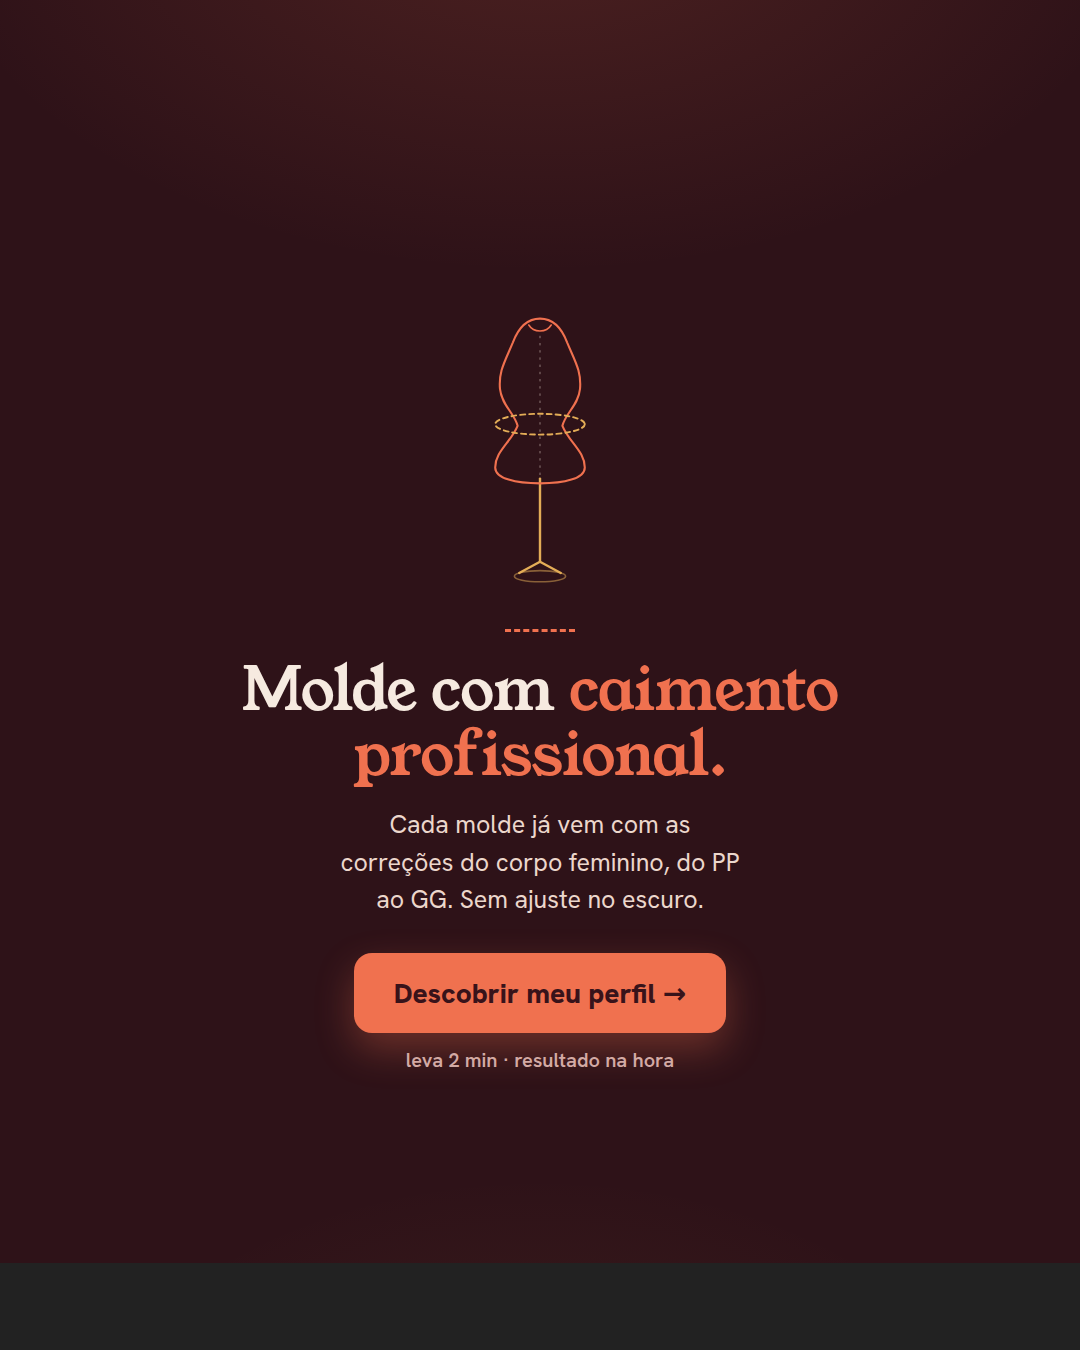
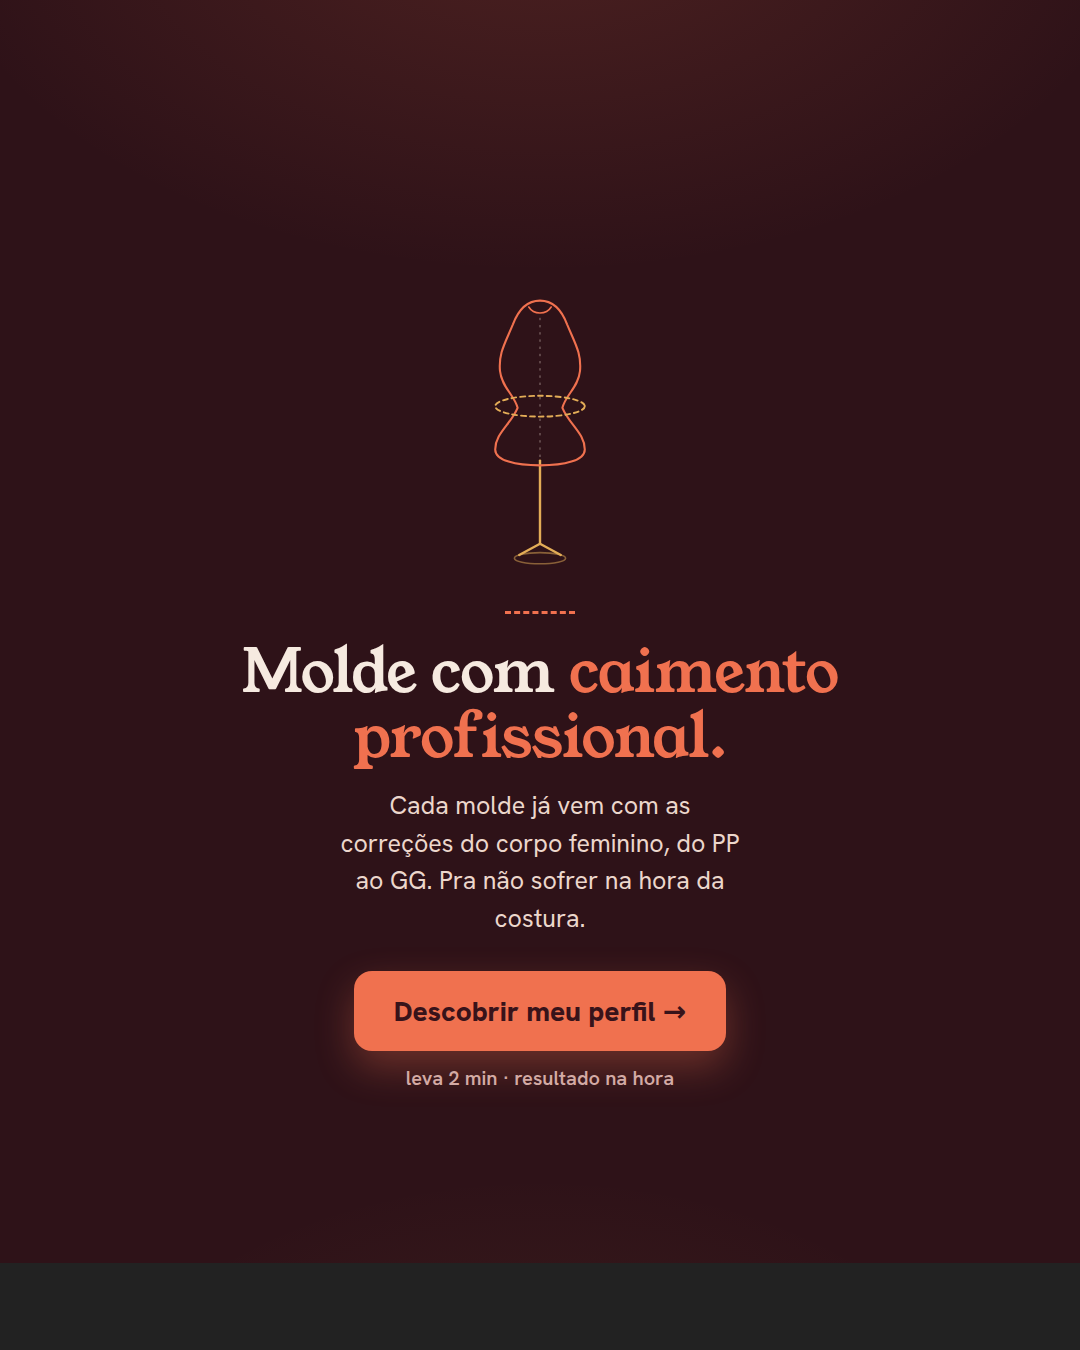
copy(criativos): manequim sub -> "Pra não sofrer na hora da costura"
Troca "Sem ajuste no escuro" por "Pra não sofrer na hora da costura" no
criativo manequim (feed + stories).

Claude-Session: https://claude.ai/code/session_016H96bb8eAFfmjxwbFd5sg9

Changed region(s): [[0.2139, 0.4667, 0.7944, 0.8089], [0.4583, 0.2178, 0.55, 0.3733], [0.4583, 0.4044, 0.5194, 0.4356]]

diff --git a/criativos/sem-foto/manequim-feed.html b/criativos/sem-foto/manequim-feed.html
@@ -21,5 +21,5 @@ h1 b{color:var(--coral);font-weight:400}
 <path d="M120 52 C138 52 148 66 154 82 C164 106 172 118 170 140 C168 160 152 170 148 186 C156 206 176 218 176 238 C176 252 150 258 120 258 C90 258 64 252 64 238 C64 218 84 206 92 186 C88 170 72 160 70 140 C68 118 76 106 86 82 C92 66 102 52 120 52 Z" stroke="#f0714f" stroke-width="2.6"/>
 <path d="M106 60 C112 70 128 70 134 60" stroke="#f0714f" stroke-width="2"/>
 <line x1="120" y1="74" x2="120" y2="254" stroke="#f6eae0" stroke-width="1.2" stroke-dasharray="2 7" opacity=".5"/>
-<ellipse cx="120" cy="184" rx="56" ry="13" stroke="#e3ad57" stroke-width="2.4" stroke-dasharray="6 5"/></svg></div><div class="seam"></div><h1>Molde com <b>caimento profissional.</b></h1><p class="sub">Cada molde já vem com as correções do corpo feminino, do PP ao GG. Sem ajuste no escuro.</p><span class="cta">Descobrir meu perfil →</span><div class="micro">leva 2 min · resultado na hora</div>
+<ellipse cx="120" cy="184" rx="56" ry="13" stroke="#e3ad57" stroke-width="2.4" stroke-dasharray="6 5"/></svg></div><div class="seam"></div><h1>Molde com <b>caimento profissional.</b></h1><p class="sub">Cada molde já vem com as correções do corpo feminino, do PP ao GG. Pra não sofrer na hora da costura.</p><span class="cta">Descobrir meu perfil →</span><div class="micro">leva 2 min · resultado na hora</div>
 </div></body></html>

diff --git a/criativos/sem-foto/manequim-stories.html b/criativos/sem-foto/manequim-stories.html
@@ -21,5 +21,5 @@ h1 b{color:var(--coral);font-weight:400}
 <path d="M120 52 C138 52 148 66 154 82 C164 106 172 118 170 140 C168 160 152 170 148 186 C156 206 176 218 176 238 C176 252 150 258 120 258 C90 258 64 252 64 238 C64 218 84 206 92 186 C88 170 72 160 70 140 C68 118 76 106 86 82 C92 66 102 52 120 52 Z" stroke="#f0714f" stroke-width="2.6"/>
 <path d="M106 60 C112 70 128 70 134 60" stroke="#f0714f" stroke-width="2"/>
 <line x1="120" y1="74" x2="120" y2="254" stroke="#f6eae0" stroke-width="1.2" stroke-dasharray="2 7" opacity=".5"/>
-<ellipse cx="120" cy="184" rx="56" ry="13" stroke="#e3ad57" stroke-width="2.4" stroke-dasharray="6 5"/></svg></div><div class="seam"></div><h1>Molde com <b>caimento profissional.</b></h1><p class="sub">Cada molde já vem com as correções do corpo feminino, do PP ao GG. Sem ajuste no escuro.</p><span class="cta">Descobrir meu perfil →</span><div class="micro">leva 2 min · resultado na hora</div>
+<ellipse cx="120" cy="184" rx="56" ry="13" stroke="#e3ad57" stroke-width="2.4" stroke-dasharray="6 5"/></svg></div><div class="seam"></div><h1>Molde com <b>caimento profissional.</b></h1><p class="sub">Cada molde já vem com as correções do corpo feminino, do PP ao GG. Pra não sofrer na hora da costura.</p><span class="cta">Descobrir meu perfil →</span><div class="micro">leva 2 min · resultado na hora</div>
 </div></body></html>
